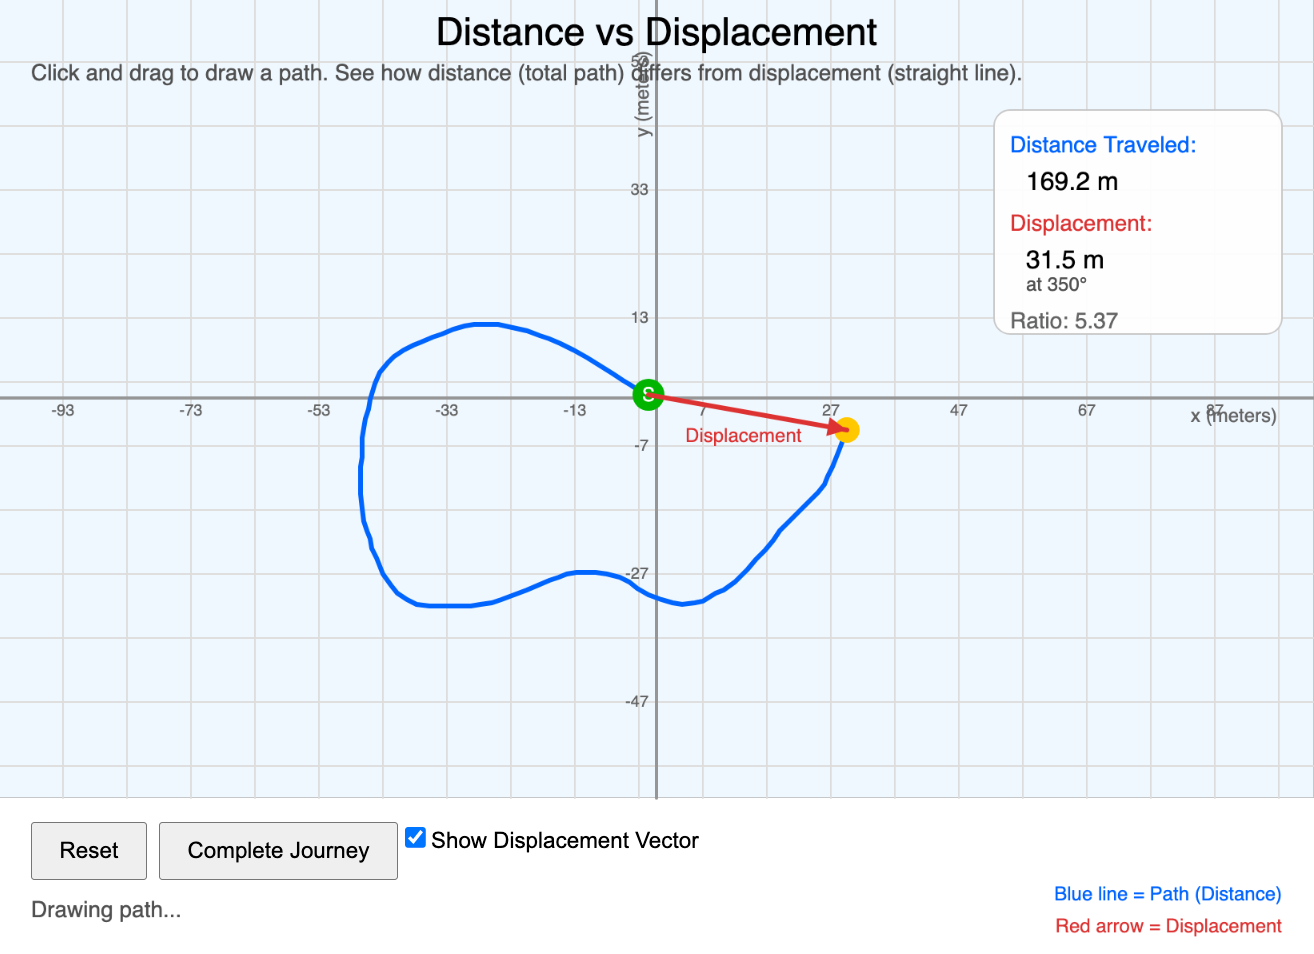
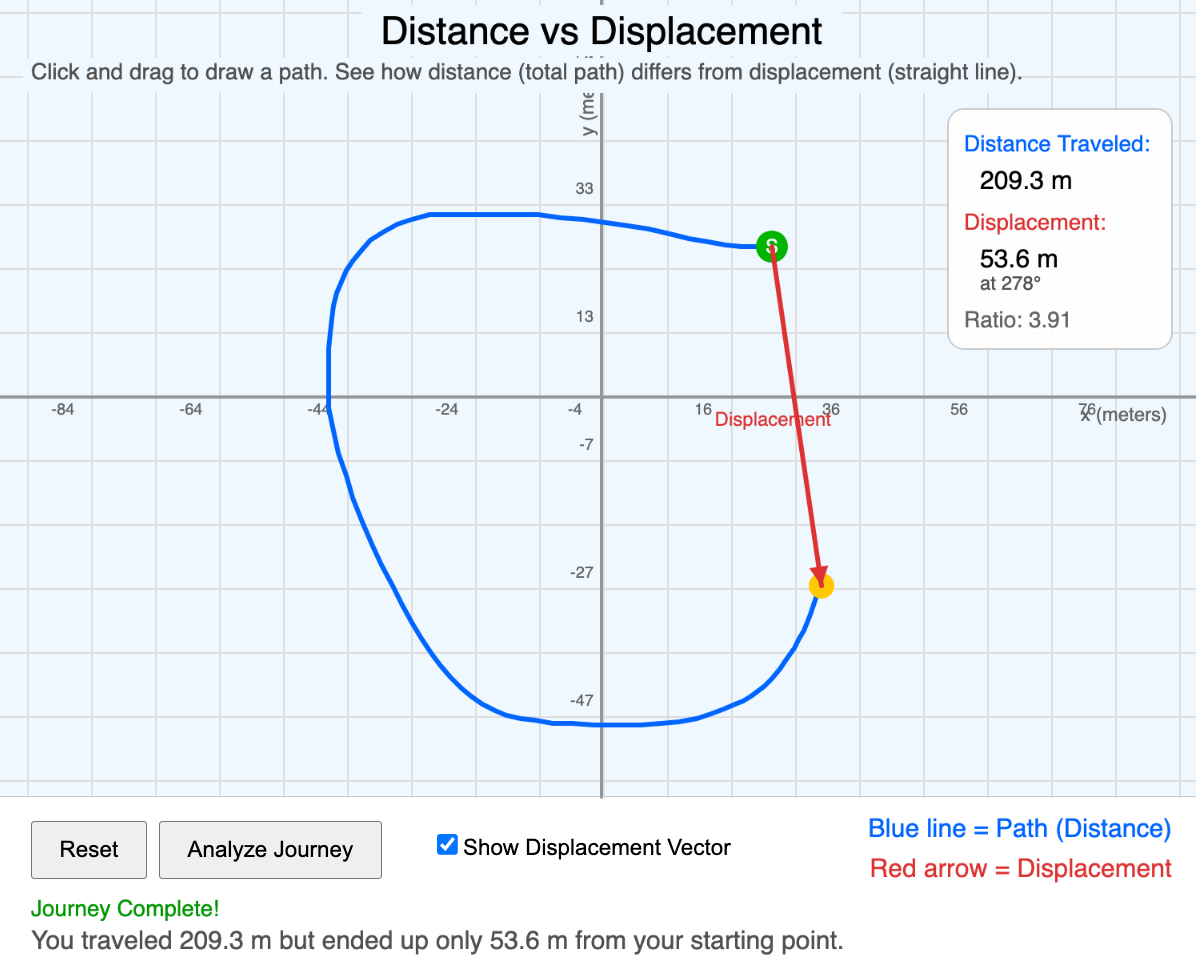
update distance displacement microsim

diff --git a/docs/sims/distance-displacement/distance-displacement.js b/docs/sims/distance-displacement/distance-displacement.js
@@ -5,7 +5,7 @@
 // Canvas dimensions - REQUIRED structure
 let canvasWidth = 800;
 let drawHeight = 500;
-let controlHeight = 100;
+let controlHeight = 130;
 let canvasHeight = drawHeight + controlHeight;
 let margin = 20;
 let sliderLeftMargin = 140;
@@ -49,14 +49,15 @@ function setup() {
     resetButton.style('font-size', '14px');
     resetButton.style('padding', '8px 16px');
 
-    completeButton = createButton('Complete Journey');
+    completeButton = createButton('Analyze Journey');
     completeButton.position(margin + 80, drawHeight + 15);
     completeButton.mousePressed(completeJourney);
     completeButton.style('font-size', '14px');
     completeButton.style('padding', '8px 16px');
+    completeButton.attribute('disabled', '');
 
     showVectorCheckbox = createCheckbox('Show Displacement Vector', true);
-    showVectorCheckbox.position(margin + 230, drawHeight + 15);
+    showVectorCheckbox.position(margin + 250, drawHeight + 20);
     showVectorCheckbox.style('font-size', '14px');
 
     describe('Interactive visualization where users draw paths to understand distance vs displacement. Distance is the total path length while displacement is the straight-line distance from start to end.', LABEL);
@@ -82,17 +83,22 @@ function draw() {
     // Draw coordinate axes
     drawAxes();
 
-    // Draw title
-    fill('black');
+    // Draw title with background
+    fill('aliceblue');
     noStroke();
+    rect(canvasWidth / 2 - 150, 5, 300, 32, 5);
+    fill('black');
     textSize(24);
     textAlign(CENTER, TOP);
     text('Distance vs Displacement', canvasWidth / 2, 10);
 
-    // Draw instructions
+    // Draw instructions with background
+    fill('aliceblue');
+    noStroke();
+    rect(margin - 5, 38, 620, 22, 5);
+    fill(80);
     textSize(14);
     textAlign(LEFT, TOP);
-    fill(80);
     text('Click and drag to draw a path. See how distance (total path) differs from displacement (straight line).', margin, 40);
 
     // Draw the path
@@ -126,6 +132,9 @@ function draw() {
 
     // Draw example tip
     if (!journeyComplete && path.length < 3) {
+        fill('aliceblue');
+        noStroke();
+        rect(canvasWidth / 2 - 320, drawHeight - 28, 640, 22, 5);
         fill(100, 100, 150);
         textSize(13);
         textAlign(CENTER, BOTTOM);
@@ -140,13 +149,13 @@ function drawGrid() {
     stroke(220);
     strokeWeight(1);
 
-    // Vertical lines
-    for (let x = 0; x <= canvasWidth; x += gridSize) {
+    // Vertical lines - offset to align with y-axis
+    for (let x = 18; x <= canvasWidth; x += gridSize) {
         line(x, 0, x, drawHeight);
     }
 
-    // Horizontal lines
-    for (let y = 0; y <= drawHeight; y += gridSize) {
+    // Horizontal lines - offset to align with x-axis
+    for (let y = 10; y <= drawHeight; y += gridSize) {
         line(0, y, canvasWidth, y);
     }
 }
@@ -272,10 +281,10 @@ function calculateMetrics() {
 
 function drawMetrics() {
     // Draw metrics panel on right side
-    let panelX = canvasWidth - 200;
+    let panelX = canvasWidth - 160;
     let panelY = 70;
-    let panelW = 180;
-    let panelH = 140;
+    let panelW = 140;
+    let panelH = 150;
 
     // Panel background
     fill(255, 255, 255, 230);
@@ -339,24 +348,21 @@ function drawControlLabels() {
 
         // Final summary
         fill(80);
-        textSize(13);
+        textSize(16);
         let summaryText = 'You traveled ' + totalDistance.toFixed(1) + ' m but ended up only ' +
                          displacement.toFixed(1) + ' m from your starting point.';
         text(summaryText, margin, drawHeight + 90);
-    } else {
-        fill(80);
-        text('Drawing path...', margin, drawHeight + 70);
     }
 
     // Legend
-    textSize(12);
+    textSize(16);
     textAlign(RIGHT, CENTER);
 
     fill(0, 100, 255);
-    text('Blue line = Path (Distance)', canvasWidth - margin, drawHeight + 60);
+    text('Blue line = Path (Distance)', canvasWidth - margin, drawHeight + 20);
 
     fill(220, 50, 50);
-    text('Red arrow = Displacement', canvasWidth - margin, drawHeight + 80);
+    text('Red arrow = Displacement', canvasWidth - margin, drawHeight + 45);
 }
 
 function mousePressed() {
@@ -378,6 +384,10 @@ function mouseDragged() {
         let d = dist(mouseX, mouseY, lastPoint.x, lastPoint.y);
         if (d > 5) {
             path.push(createVector(mouseX, mouseY));
+            // Enable analyze button once path has been drawn
+            if (path.length > 1) {
+                completeButton.removeAttribute('disabled');
+            }
         }
     }
 }
@@ -393,6 +403,7 @@ function resetPath() {
     displacement = 0;
     displacementAngle = 0;
     journeyComplete = false;
+    completeButton.attribute('disabled', '');
 }
 
 function completeJourney() {

diff --git a/docs/sims/distance-displacement/index.md b/docs/sims/distance-displacement/index.md
@@ -1,13 +1,24 @@
 ---
 title: Distance vs Displacement
 description: An interactive MicroSim that helps students understand the difference between distance (total path length) and displacement (straight-line change in position).
+image: /sims/distance-displacement/distance-displacement.png
+og:image: /sims/distance-displacement/distance-displacement.png
+quality_score: 100
 ---
 
 # Distance vs Displacement
 
-<iframe src="main.html" height="602px" width="100%" scrolling="no"></iframe>
+<iframe src="main.html" height="612px" width="100%" scrolling="no"></iframe>
 
 [Run the Distance vs Displacement MicroSim Fullscreen](./main.html){ .md-button .md-button--primary }
+
+[Edit Distance vs Displacement in the p5.js Editor](https://editor.p5js.org/dmccreary/sketches/Rr6vCm33i){ .md-button .md-button--secondary }
+
+Copy this iframe to embed this MicroSim in your website:
+
+```html
+<iframe src="https://dmccreary.github.io/intro-to-physics-course/sims/distance-displacement/main.html" width="100%" height="650px"></iframe>
+```
 
 ## Description
 
@@ -65,3 +76,9 @@ High School Physics (Grades 9-12)
 - Walking around a track vs. running across a field
 - Road trip distance vs. "as the crow flies" distance
 - GPS navigation: total route distance vs. straight-line distance to destination
+
+## References
+
+1. [Distance and Displacement](https://www.physicsclassroom.com/class/1DKin/Lesson-1/Distance-and-Displacement) - The Physics Classroom - Comprehensive tutorial on the difference between distance and displacement with examples
+2. [Scalars and Vectors](https://www.khanacademy.org/science/physics/one-dimensional-motion/displacement-velocity-time/v/introduction-to-vectors-and-scalars) - Khan Academy - Video introduction to scalar and vector quantities
+3. [p5.js Reference](https://p5js.org/reference/) - p5.js Documentation - JavaScript library used to create this interactive simulation

diff --git a/docs/sims/index.md b/docs/sims/index.md
@@ -120,10 +120,12 @@ This section contains interactive MicroSims covering topics in high school physi
 
 - **[DC Motor Operation](./dc-motor/index.md)**
 
+    ![DC Motor Operation](./dc-motor/dc-motor.png)
     An interactive visualization demonstrating how DC motors convert electrical energy to mechanical rotation through electromagnetic forces.
 
 - **[Distance vs Displacement](./distance-displacement/index.md)**
 
+    ![Distance vs Displacement](./distance-displacement/distance-displacement.png)
     An interactive MicroSim that helps students understand the difference between distance (total path length) and displacement (straight-line change in position).
 
 - **[Doppler Effect Simulation](./doppler-effect/index.md)**

diff --git a/docs/chapters/13-electric-circuits/index.md b/docs/chapters/13-electric-circuits/index.md
@@ -75,14 +75,13 @@ Both descriptions are valid and give the same results for circuit analysis. Most
 
 #### Diagram: Current Flow Animation MicroSim
 
-<iframe src="../../sims/current-animation/main.html" width="100%" height="502px" scrolling="no"></iframe>
+<iframe src="../../sims/current-animation/main.html" width="100%" height="520px" scrolling="no"></iframe>
 
 [View detailed explanation and educational context](../../sims/current-animation/index.md)
 
 <details markdown="1">
     <summary>Current Flow Animation MicroSim</summary>
     **Status:** done
-    **TODO:** human-review-needed (existing sim is simpler than specification - lacks conventional vs electron flow toggle)
 
     Type: microsim
 
